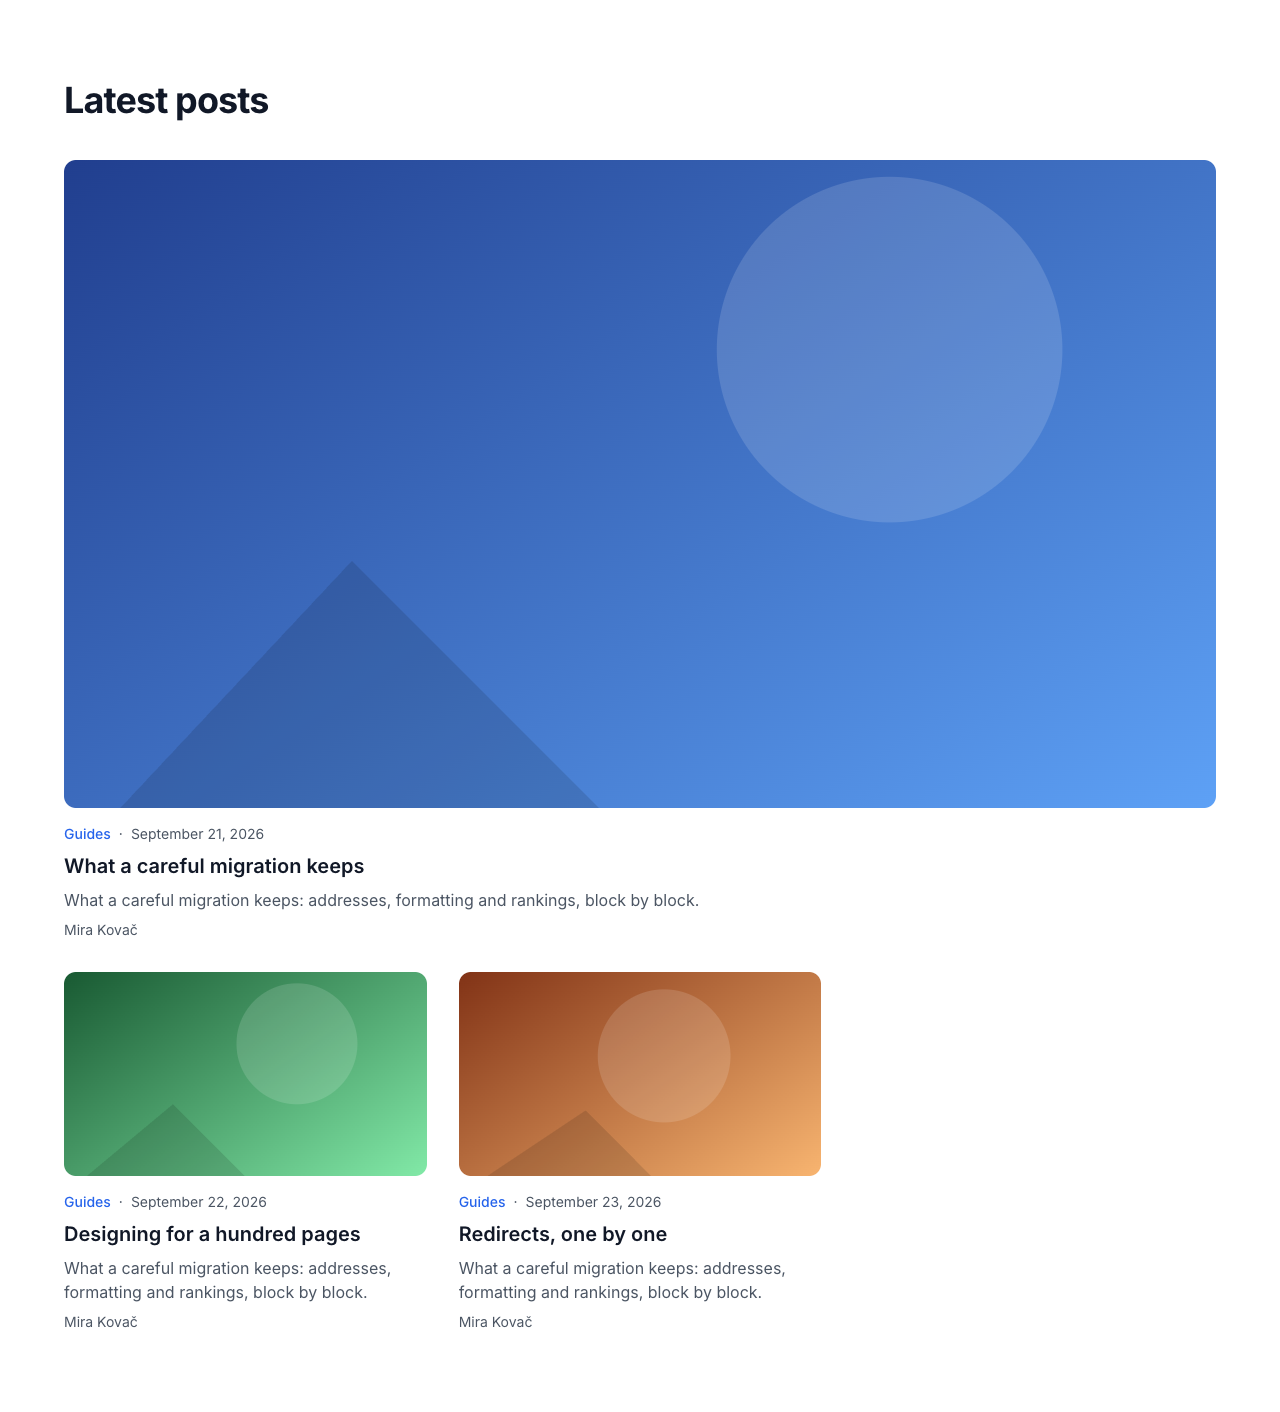
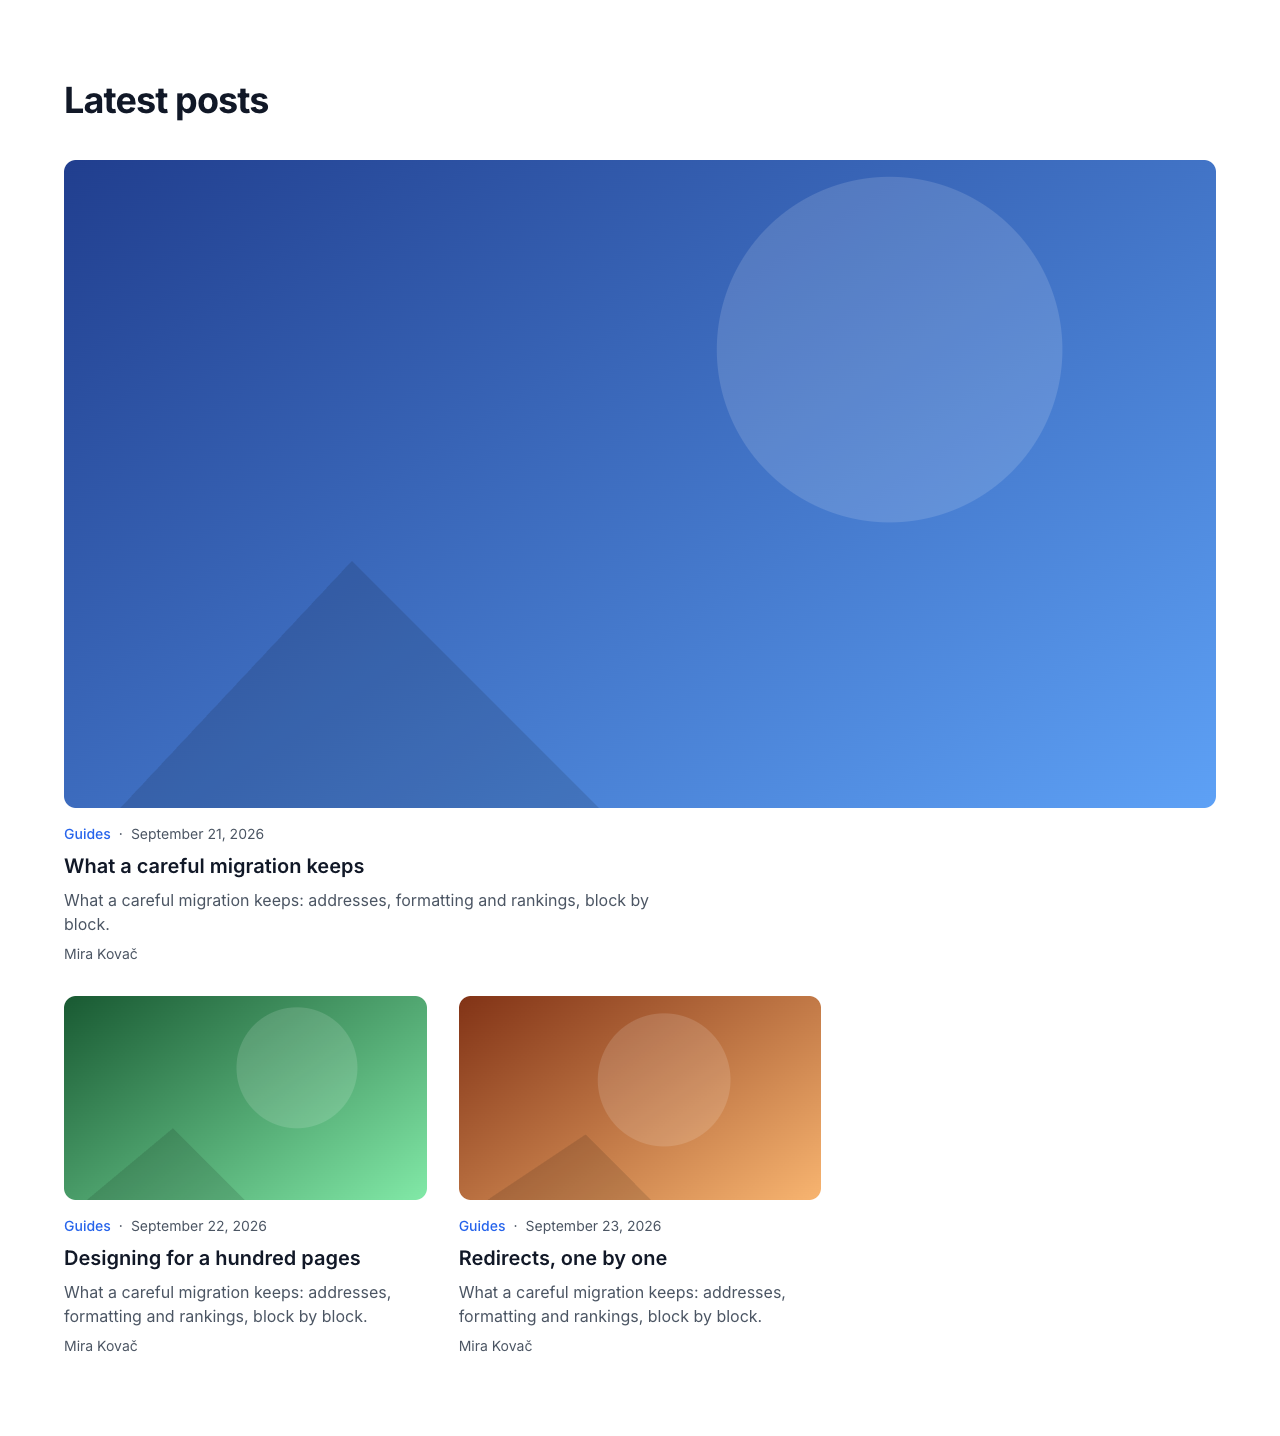
fix(astro-starter): reading measure for every paragraph on the page, whoever wrote its classes (GENERIC) (#667)

diff --git a/templates/astro-starter/src/styles/global.css b/templates/astro-starter/src/styles/global.css
@@ -167,6 +167,18 @@
     overflow-wrap: break-word;
   }
 
+  /* The reading measure for every paragraph on the page, whoever wrote its classes (a kit component, the site's own):
+     a line under 90 average characters in any face. It is a width, not a max-width, so a max-w-* utility on the same
+     paragraph still narrows it and never widens it past 62ch. A centred paragraph's box stays centred. A paragraph that
+     is a flex or grid item keeps the size its layout gives it (a width there would stretch a price or a caption), and
+     a WordPress wide or full paragraph still breaks out of its column. */
+  :where(main) :where(:not([class~='flex'], [class*=':flex'], [class~='inline-flex'], [class*=':inline-flex'], [class~='grid'], [class*=':grid'], [class~='inline-grid'], [class*=':inline-grid']) > p:not(.alignwide, .alignfull)) {
+    width: min(100%, 62ch);
+  }
+  :where(main) :where(.text-center) :where(:not([class~='flex'], [class*=':flex'], [class~='inline-flex'], [class*=':inline-flex'], [class~='grid'], [class*=':grid'], [class~='inline-grid'], [class*=':inline-grid']) > p), :where(main) :where(:not([class~='flex'], [class*=':flex'], [class~='inline-flex'], [class*=':inline-flex'], [class~='grid'], [class*=':grid'], [class~='inline-grid'], [class*=':inline-grid']) > p.text-center) {
+    margin-inline: auto;
+  }
+
   /* Letter spacing is drawn for Latin. It pulls apart joined scripts (Arabic,
      Syriac, Thaana), splits Indic and Southeast Asian clusters and crowds CJK,
      and Hebrew is set without it, so in those languages the tracking tokens
